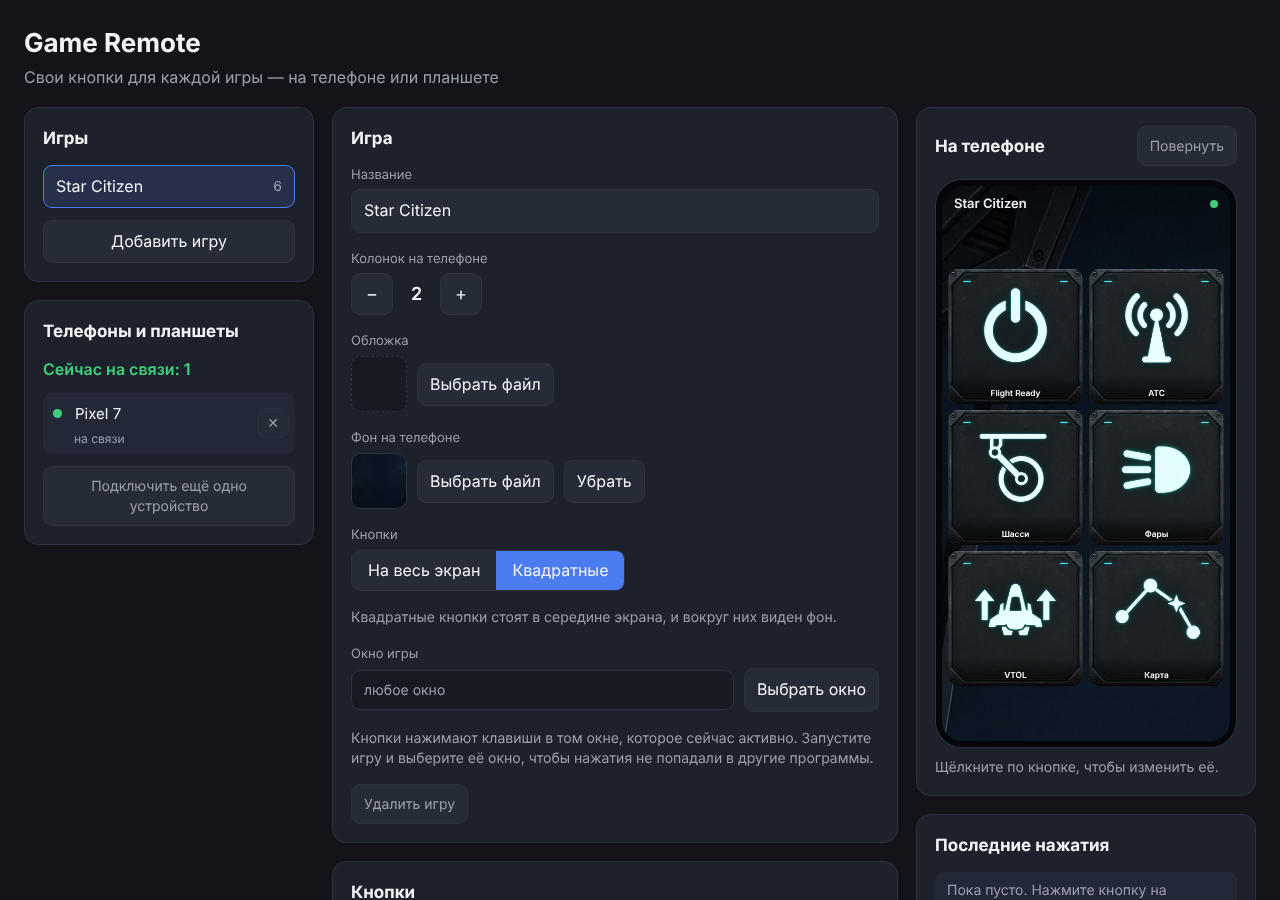
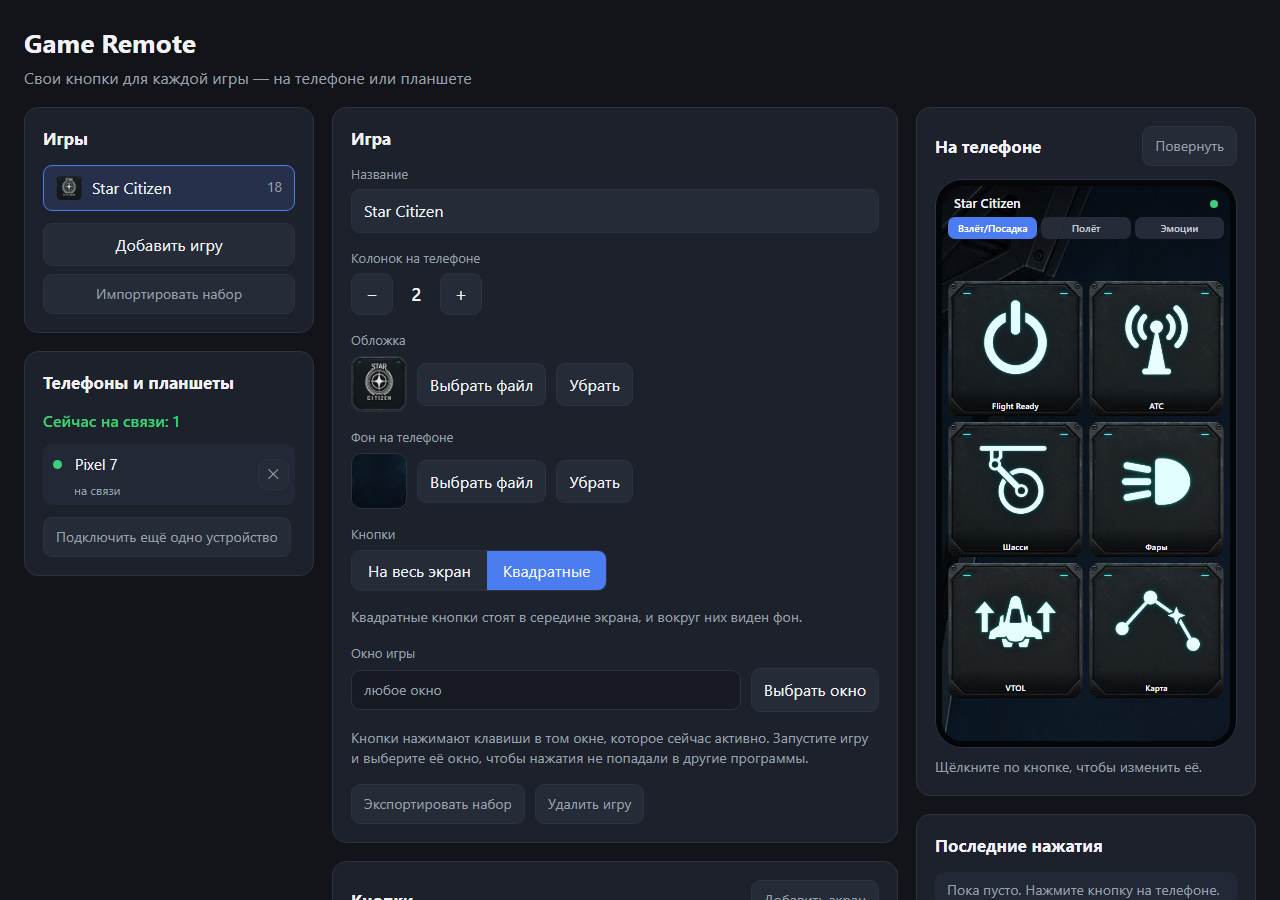
Version 0.4.0
The catalogue of sets is the news of this release: ready-made zips on
the page of sets, an import that asks whether to replace a game of the
same name, and a Star Citizen set of three screens. The changelog
section says what changed and how to update.

The pictures of README are taken again. The tool that takes them puts
the ready-made panel in the language of the picture: on Windows a first
start takes the language of the PC, whatever LANG says.

diff --git a/tools/make_screenshots.js b/tools/make_screenshots.js
@@ -7,7 +7,7 @@
 // PYTHON chooses the interpreter (default: python).
 
 const { chromium } = require('playwright');
-const { spawn } = require('child_process');
+const { execFileSync, spawn } = require('child_process');
 const fs = require('fs');
 const net = require('net');
 const os = require('os');
@@ -15,8 +15,16 @@ const path = require('path');
 
 const out = path.join(__dirname, '..', 'docs', 'img');
 const python = process.env.PYTHON || 'python';
-// The ready-made panel takes its labels from the system language of the first start.
-const LANGUAGES = { ru: 'ru_RU.UTF-8', en: 'en_US.UTF-8' };
+const LANGUAGES = ['ru', 'en'];
+// Puts the ready-made panel into a data folder in the language of the picture.
+// A first start would take the language of this PC for it.
+const SEED = `import sys
+from pathlib import Path
+from game_remote.panels import SAMPLE_ID, PanelStore, read_set, sample_dir
+store = PanelStore(Path(sys.argv[1]) / 'panels')
+store.root.mkdir()
+store.install_set(read_set(sample_dir(SAMPLE_ID)), SAMPLE_ID, sys.argv[2])
+`;
 
 const sleep = (ms) => new Promise((resolve) => setTimeout(resolve, ms));
 
@@ -30,15 +38,15 @@ function freePort() {
   });
 }
 
-// One language: a first start in an empty data folder, as a new user sees it.
+// One language: the program with the ready-made panel alone, as a new user sees it.
 async function shoot(browser, language) {
   const dataDir = fs.mkdtempSync(path.join(os.tmpdir(), 'game-remote-shots-'));
   const editor = `http://127.0.0.1:${await freePort()}`;
   const remote = `http://127.0.0.1:${await freePort()}`;
+  execFileSync(python, ['-c', SEED, dataDir, language]);
+  fs.writeFileSync(path.join(dataDir, 'settings.json'), JSON.stringify({ samples: ['star-citizen'] }));
   const env = {
     ...process.env,
-    LANG: LANGUAGES[language],
-    LC_ALL: '',
     GAME_REMOTE_DATA_DIR: dataDir,
     GAME_REMOTE_EDITOR_PORT: new URL(editor).port,
     GAME_REMOTE_REMOTE_PORT: new URL(remote).port,
@@ -101,7 +109,7 @@ async function main() {
   fs.mkdirSync(out, { recursive: true });
   const browser = await chromium.launch();
   try {
-    for (const language of Object.keys(LANGUAGES)) await shoot(browser, language);
+    for (const language of LANGUAGES) await shoot(browser, language);
   } finally {
     await browser.close();
   }

diff --git a/src/game_remote/__init__.py b/src/game_remote/__init__.py
@@ -1,3 +1,3 @@
 """Game Remote: a phone or tablet as a custom button panel for Windows games."""
 
-__version__ = "0.3.0"
+__version__ = "0.4.0"

diff --git a/PLAN.md b/PLAN.md
@@ -35,12 +35,13 @@
 | 1. Формат набора | Набор — папка игры: `panel.json` на языке автора с пометкой этого языка (`"language": "en"`) и необязательные переводы, по файлу на язык (`panel.ru.json`: название, названия экранов и подписи кнопок по их `id`). Star Citizen переезжает в этот формат из кода | Код готов |
 | 2. Импорт и экспорт | В редакторе: экспорт игры в zip набора и импорт zip. Импорт проверяет схему, картинки, число и объём файлов, имена внутри архива, выбирает язык и добавляет игру | Код готов |
 | 3. Каталог | Папка наборов в репозитории, вклад через pull request. CI проверяет каждый набор: схема, картинки, совпадение переводов с кнопками. Инструкция для авторов, в том числе какие картинки можно присылать | Код готов: папка `sets` с инструкцией, `tools/build_sets.py`, проверка в тестах |
-| 4. Готовые zip | Отдельный workflow упаковывает наборы и выкладывает их на GitHub для скачивания, не трогая exe | Код готов: workflow `Sets` кладёт zip в релиз `panel-sets`; заработает после слияния в `main` |
+| 4. Готовые zip | Отдельный workflow упаковывает наборы и выкладывает их на GitHub для скачивания, не трогая exe | Работает: workflow `Sets` кладёт zip в релиз `panel-sets` при каждой правке наборов в `main` |
 
 Отложено: загрузка наборов прямо из редактора и подписи, которые переключаются вместе с языком интерфейса.
 
 ## Что уже сделано
 
+- Версия 0.4.0: каталог наборов. Готовые zip лежат на странице `panel-sets`, импорт спрашивает «заменить или добавить рядом», у набора Star Citizen три экрана. Это шаги 3 и 4 плана наборов выше.
 - Версия 0.3.0: наборы. Игра экспортируется в zip и импортируется на другом ПК, подписи набора переводятся. Это шаги 1 и 2 плана наборов выше.
 - Версия 0.2.0: экраны. Кнопки одной игры раскладываются по нескольким экранам, на телефоне их переключают вкладки. У готовой панели Star Citizen появились обложка и два экрана.
 - Готовая панель Star Citizen вместо «Демо»: шесть кнопок с картинками и фоном. Для неё у панели появились фон и квадратные кнопки. Нетронутая «Демо» прежней версии уходит в корзину.

diff --git a/CHANGELOG.md b/CHANGELOG.md
@@ -1,12 +1,24 @@
 # Изменения / Changelog
 
-## Не выпущено / Unreleased
+## 0.4.0
 
+Каталог наборов: готовые наборы скачиваются с GitHub, а набор обновляется заменой.
+
+- У готовых наборов появилась страница: [Наборы](https://github.com/godsfear/game-remote/releases/tag/panel-sets). Скачайте zip своей игры и нажмите «Импортировать набор». Как прислать свой набор, описано в [sets/README.md](https://github.com/godsfear/game-remote/blob/main/sets/README.md).
 - Импорт набора спрашивает, что делать, если игра с таким названием уже есть: добавить набор рядом или заменить им игру. Заменённая игра переносится в корзину программы.
+- После замены телефон и редактор сразу показывают новые картинки, даже если их файлы называются так же, как старые.
 - В наборе Star Citizen три экрана по шесть кнопок: к «Взлёт/Посадка» добавились «Полёт» и «Эмоции». Панель, которая уже стоит на ПК, не меняется: чтобы получить новые кнопки, импортируйте `star-citizen.zip` со страницы наборов и выберите «Заменить».
 
+Обновление: скачайте новый `GameRemote.exe` и запускайте его вместо старого. Игры, кнопки и подключённые устройства остаются на месте.
+
+The catalogue of sets: ready-made sets are downloaded from GitHub, and a set is updated by replacing it.
+
+- Ready-made sets have a page: [Sets](https://github.com/godsfear/game-remote/releases/tag/panel-sets). Download the zip of your game and press "Import a set". [sets/README.md](https://github.com/godsfear/game-remote/blob/main/sets/README.md) says how to send your own set.
 - An import of a set asks what to do when a game of that name is there already: add the set next to it or replace the game with it. A replaced game is moved to the trash folder of the program.
+- After a replacement the phone and the editor show the new pictures at once, also when their files have the names of the old ones.
 - The Star Citizen set has three screens of six buttons: "Flight" and "Emotes" joined "Takeoff/Landing". A panel that is already on the PC is not changed: to get the new buttons, import `star-citizen.zip` from the page of sets and choose "Replace".
+
+Updating: download the new `GameRemote.exe` and start it in place of the old one. Games, buttons and paired devices stay where they are.
 
 ## 0.3.0
 
